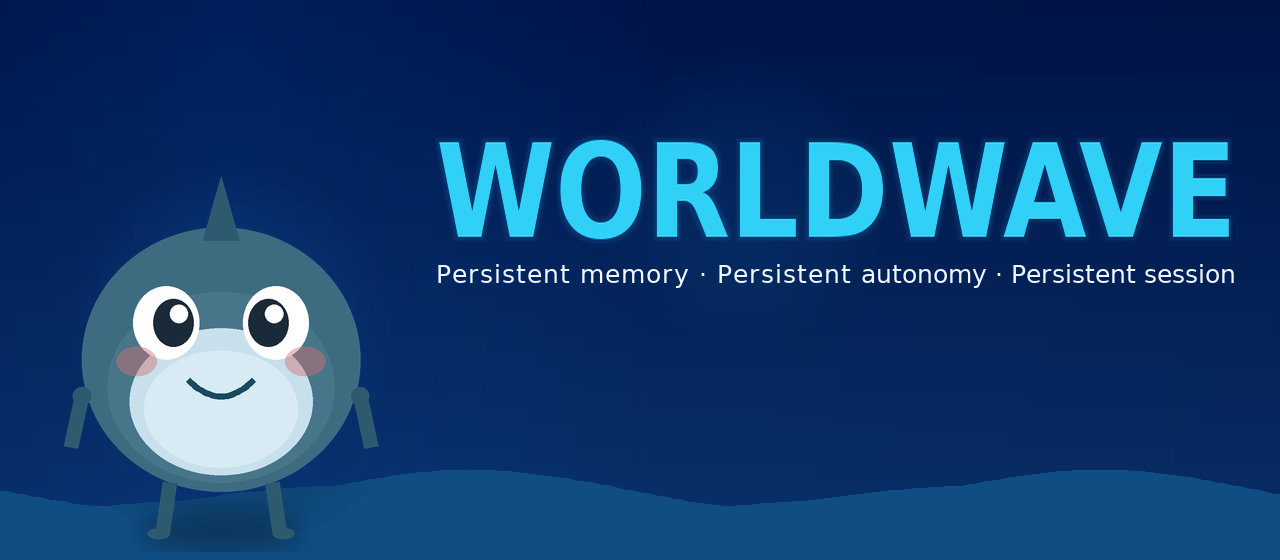
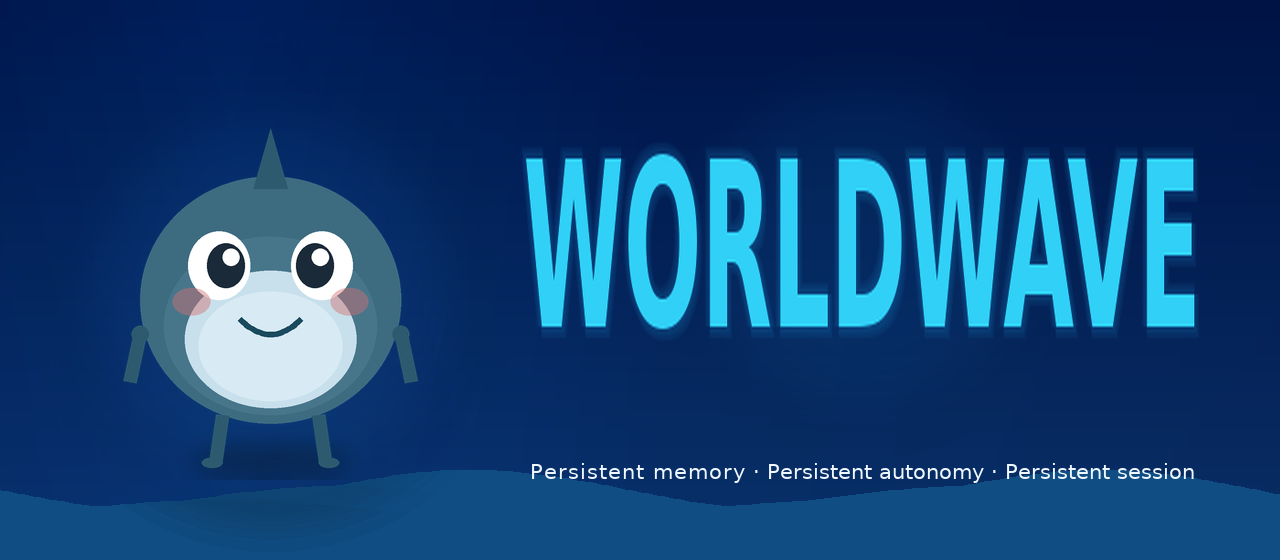
Hero: hard-fit layout to user annotation boxes
Shark/title/sub sized from measured purple/red/green pen strokes
on the marked mock (714x268 title, left shark column, bottom promo).

Changed region(s): [[0.3438, 0.2429, 0.9688, 0.6071], [0.0312, 0.2429, 0.3438, 0.9714], [0.4062, 0.8196, 0.9375, 0.8804]]

diff --git a/scripts/_render_hero.py b/scripts/_render_hero.py
@@ -1,12 +1,10 @@
 #!/usr/bin/env python3
-"""Render Worldwave README hero banner + social preview.
+"""Render Worldwave README hero — sizes locked to user's annotation circles.
 
-Layout zones (user annotated):
-  LEFT   — small blue shark (mascot)
-  RIGHT  — WORLDWAVE title (bold cyan, vertical stretch only)
-  BELOW  — promo line, letter-spaced to equal WORLDWAVE width
-
-Title must NOT invade the shark column.
+Measured from img_c03b2e573d40.jpg (1280x560):
+  PURPLE shark: x=96-447 (7.5%-34.9%)  y=96-489 (17.1%-87.3%)  ~351x393
+  RED    title: x=506-1220 (39.5%-95.3%) y=108-376 (19.3%-67.1%)  ~714x268
+  GREEN  sub:   x=530-1194 (41.4%-93.3%) y=410-530 (73.2%-94.6%)  ~664x120
 """
 from pathlib import Path
 from PIL import Image, ImageDraw, ImageFont, ImageFilter
@@ -14,7 +12,7 @@ import math
 
 ROOT = Path(__file__).resolve().parents[1]
 assets = ROOT / "docs" / "assets"
-shark = Image.open(assets / "shark-mascot.png").convert("RGBA")
+shark_src = Image.open(assets / "shark-mascot.png").convert("RGBA")
 BOLD = "/usr/share/fonts/truetype/dejavu/DejaVuSans-Bold.ttf"
 REG = "/usr/share/fonts/truetype/dejavu/DejaVuSans.ttf"
 if not Path(BOLD).exists():
@@ -22,13 +20,16 @@ if not Path(BOLD).exists():
 if not Path(REG).exists():
     REG = "/mnt/c/Windows/Fonts/arial.ttf"
 
-# Approved soft cyan palette
 TITLE_FILL = (49, 209, 247, 255)
 TITLE_GLOW = (25, 150, 210)
 SUB_FILL = (240, 248, 255, 255)
 BG_TOP = (0, 21, 73)
 WAVE = (15, 77, 131)
-V_STRETCH = 1.20  # 只上下拉长，不整体放大
+
+# Annotation fractions (from pen strokes)
+SHARK = dict(l=0.0750, r=0.3492, t=0.1714, b=0.8732)
+TITLE = dict(l=0.3953, r=0.9531, t=0.1929, b=0.6714)
+SUB = dict(l=0.4141, r=0.9336, t=0.7321, b=0.9464)
 
 
 def font(path: str, size: int) -> ImageFont.FreeTypeFont:
@@ -69,55 +70,48 @@ def make_bg(w: int, h: int) -> Image.Image:
         draw.polygon(pts, fill=(*WAVE, alpha))
     glow = Image.new("RGBA", (w, h), (0, 0, 0, 0))
     gd = ImageDraw.Draw(glow)
-    gx, gy = int(w * 0.18), int(h * 0.58)
-    for r, a in [(160, 26), (100, 38), (60, 48)]:
-        gd.ellipse([gx - r, gy - r, gx + r, gy + r], fill=(30, 95, 155, a))
-    for r, a in [(140, 14), (90, 20)]:
-        gd.ellipse(
-            [int(w * 0.58) - r, int(h * 0.36) - r, int(w * 0.58) + r, int(h * 0.36) + r],
-            fill=(20, 130, 200, a),
-        )
+    # glow under shark zone + title zone
+    gx = int(w * (SHARK["l"] + SHARK["r"]) / 2)
+    gy = int(h * (SHARK["t"] + SHARK["b"]) / 2)
+    for rad, a in [(200, 28), (120, 40), (70, 50)]:
+        gd.ellipse([gx - rad, gy - rad, gx + rad, gy + rad], fill=(30, 95, 155, a))
+    tx = int(w * (TITLE["l"] + TITLE["r"]) / 2)
+    ty = int(h * (TITLE["t"] + TITLE["b"]) / 2)
+    for rad, a in [(180, 16), (110, 22)]:
+        gd.ellipse([tx - rad, ty - rad, tx + rad, ty + rad], fill=(20, 130, 200, a))
     glow = glow.filter(ImageFilter.GaussianBlur(30))
     return Image.alpha_composite(base, glow)
 
 
-def render_title_layer(text: str, fnt, v_stretch: float = 1.20) -> tuple[Image.Image, int, int]:
-    tw, th = text_size(fnt, text)
-    pad = 14
+def render_title_to_box(text: str, box_w: int, box_h: int) -> Image.Image:
+    """Render WORLDWAVE so final bitmap fills box_w x box_h (may non-uniform scale)."""
+    # Find large bold size that fits width at natural aspect, then scale to exact box
+    size = 200
+    while size >= 20:
+        f = font(BOLD, size)
+        tw, th = text_size(f, text)
+        if tw <= box_w * 1.05:  # slightly over ok before scale
+            break
+        size -= 2
+    f = font(BOLD, size)
+    tw, th = text_size(f, text)
+    pad = 20
     layer = Image.new("RGBA", (tw + pad * 2, th + pad * 2), (0, 0, 0, 0))
     d = ImageDraw.Draw(layer)
-    bb = ImageDraw.Draw(Image.new("RGBA", (8, 8))).textbbox((0, 0), text, font=fnt)
+    bb = ImageDraw.Draw(Image.new("RGBA", (8, 8))).textbbox((0, 0), text, font=f)
     ox, oy = int(pad - bb[0]), int(pad - bb[1])
-    glow_r = 4
+    glow_r = 5
     for r in range(glow_r, 0, -1):
-        a = int(16 + (glow_r - r) * 9)
-        for dx, dy in [(-r, 0), (r, 0), (0, -r), (0, r), (-r, -r), (r, r), (-r, r), (r, -r)]:
-            d.text((ox + dx, oy + dy), text, font=fnt, fill=(*TITLE_GLOW, min(255, a)))
-    d.text((ox, oy), text, font=fnt, fill=TITLE_FILL)
-    content_w, content_h = tw, th
-    if abs(v_stretch - 1.0) > 1e-3:
-        layer = layer.resize(
-            (layer.width, max(1, int(round(layer.height * v_stretch)))),
-            Image.Resampling.LANCZOS,
-        )
-        content_h = max(1, int(round(th * v_stretch)))
-    return layer, content_w, content_h
-
-
-def fit_sub_font(text: str, target_w: int, max_size: int, min_size: int = 12):
-    best = font(REG, min_size)
-    for size in range(max_size, min_size - 1, -1):
-        f = font(REG, size)
-        w, _ = text_size(f, text)
-        if w <= target_w:
-            return f
-    return best
+        a = int(18 + (glow_r - r) * 10)
+        for dx, dy in [(-r, 0), (r, 0), (0, -r), (0, r), (-r, -r), (r, r)]:
+            d.text((ox + dx, oy + dy), text, font=f, fill=(*TITLE_GLOW, min(255, a)))
+    d.text((ox, oy), text, font=f, fill=TITLE_FILL)
+    # Scale to exact annotation box (hits BOTH width and height of red circle)
+    return layer.resize((max(1, box_w), max(1, box_h)), Image.Resampling.LANCZOS)
 
 
 def draw_text_exact_width(draw, xy, text, fnt, target_w, fill):
     x, y = xy
-    if not text:
-        return
     widths = [max(text_size(fnt, ch)[0], 1) for ch in text]
     natural = sum(widths)
     if natural <= 0:
@@ -136,60 +130,68 @@ def draw_text_exact_width(draw, xy, text, fnt, target_w, fill):
             cursor += base + (1 if i < rem else 0)
 
 
+def fit_sub_font(text: str, target_w: int, max_size: int, min_size: int = 14):
+    for size in range(max_size, min_size - 1, -1):
+        f = font(REG, size)
+        if text_size(f, text)[0] <= target_w:
+            return f
+    return font(REG, min_size)
+
+
 def compose(w: int, h: int, out_path: Path) -> None:
     bg = make_bg(w, h)
 
-    # ── PURPLE ZONE: shark left column ──
-    sh = shark.copy()
-    target_h = int(h * 0.72)
-    ratio = target_h / sh.height
-    sh = sh.resize((max(1, int(sh.width * ratio)), target_h), Image.Resampling.LANCZOS)
-    sx = int(w * 0.03)
-    sy = h - sh.height - int(h * 0.015)
-    bg.paste(sh, (sx, sy), sh)
-    shark_right = sx + sh.width
+    # ── PURPLE: shark fills annotation box ──
+    sx0, sx1 = int(w * SHARK["l"]), int(w * SHARK["r"])
+    sy0, sy1 = int(h * SHARK["t"]), int(h * SHARK["b"])
+    sw, sh = sx1 - sx0, sy1 - sy0
+    # fit shark into box preserving aspect, centered
+    src = shark_src.copy()
+    scale = min(sw / src.width, sh / src.height)
+    nw, nh = max(1, int(src.width * scale)), max(1, int(src.height * scale))
+    src = src.resize((nw, nh), Image.Resampling.LANCZOS)
+    # if still short of box height, allow slight vertical fill (user wants circle size)
+    # prefer filling the box more aggressively: scale to cover min dimension then center-crop? 
+    # User said hit circle SIZE — use contain then optional upscale to cover 95% of box
+    cover = 0.95
+    scale2 = min((sw * cover) / src.width, (sh * cover) / max(src.height, 1))
+    # recompute from original for quality
+    src = shark_src.copy()
+    scale = min(sw / src.width, sh / src.height) * 0.98
+    nw, nh = max(1, int(src.width * scale)), max(1, int(src.height * scale))
+    src = src.resize((nw, nh), Image.Resampling.LANCZOS)
+    px = sx0 + (sw - nw) // 2
+    py = sy0 + (sh - nh) // 2
+    bg.paste(src, (px, py), src)
 
     draw = ImageDraw.Draw(bg)
-    title = "WORLDWAVE"
+
+    # ── RED: WORLDWAVE fills annotation box exactly ──
+    tx0, tx1 = int(w * TITLE["l"]), int(w * TITLE["r"])
+    ty0, ty1 = int(h * TITLE["t"]), int(h * TITLE["b"])
+    tw, th = tx1 - tx0, ty1 - ty0
+    title_img = render_title_to_box("WORLDWAVE", tw, th)
+    bg.paste(title_img, (tx0, ty0), title_img)
+
+    # ── GREEN: promo inside green bar, width = green width ──
+    gx0, gx1 = int(w * SUB["l"]), int(w * SUB["r"])
+    gy0, gy1 = int(h * SUB["t"]), int(h * SUB["b"])
+    gw, gh = gx1 - gx0, gy1 - gy0
     sub = "Persistent memory · Persistent autonomy · Persistent session"
-    margin_r = 36
-    pad = 14
-
-    # ── RED ZONE: WORLDWAVE to the RIGHT of shark (clear gap) ──
-    text_left = shark_right + int(w * 0.025)
-    max_w = w - text_left - margin_r
-
-    # Base size fit to red zone width only; vertical stretch later (no overall scale-up)
-    size = int(h * 0.28)
-    while size >= 40:
-        f = font(BOLD, size)
-        tw, th = text_size(f, title)
-        if tw <= max_w and th <= int(h * 0.36):
-            break
-        size -= 2
-    title_font = font(BOLD, size)
-    natural_w, natural_h = text_size(title_font, title)
-
-    title_layer, content_w, content_h = render_title_layer(title, title_font, v_stretch=V_STRETCH)
-    tx = text_left - pad
-    ty = int(h * 0.22)
-    # keep title block in upper/mid red zone
-    if ty + title_layer.height > int(h * 0.72):
-        ty = max(8, int(h * 0.72) - title_layer.height)
-    bg.paste(title_layer, (tx, ty), title_layer)
-
-    # ── GREEN ZONE: promo under WORLDWAVE, same width as title ──
-    sub_font = fit_sub_font(sub, content_w, max_size=max(12, int(h * 0.046)), min_size=11)
-    natural_sw, _ = text_size(sub_font, sub)
-    sty = ty + pad + content_h + int(h * 0.04)
-    draw_text_exact_width(draw, (text_left, sty), sub, sub_font, content_w, SUB_FILL)
+    # font height ~ 45% of green box height
+    sub_max = max(14, int(gh * 0.55))
+    sub_font = fit_sub_font(sub, gw, max_size=sub_max, min_size=12)
+    _, sh_h = text_size(sub_font, sub)
+    sty = gy0 + max(0, (gh - sh_h) // 2)
+    draw_text_exact_width(draw, (gx0, sty), sub, sub_font, gw, SUB_FILL)
 
     out = bg.convert("RGB")
     out.save(out_path, "PNG", optimize=True)
     print(
-        f"wrote {out_path} zones: shark=[{sx}-{shark_right}] "
-        f"title_left={text_left}({text_left/w:.0%}) size={size} "
-        f"natural=({natural_w}x{natural_h}) v_h={content_h} sub_nat={natural_sw}"
+        f"wrote {out_path}\n"
+        f"  shark box {sw}x{sh} @({sx0},{sy0}) sprite {nw}x{nh}\n"
+        f"  title box {tw}x{th} @({tx0},{ty0})\n"
+        f"  sub   box {gw}x{gh} @({gx0},{gy0}) font~{sub_max}"
     )
 
 